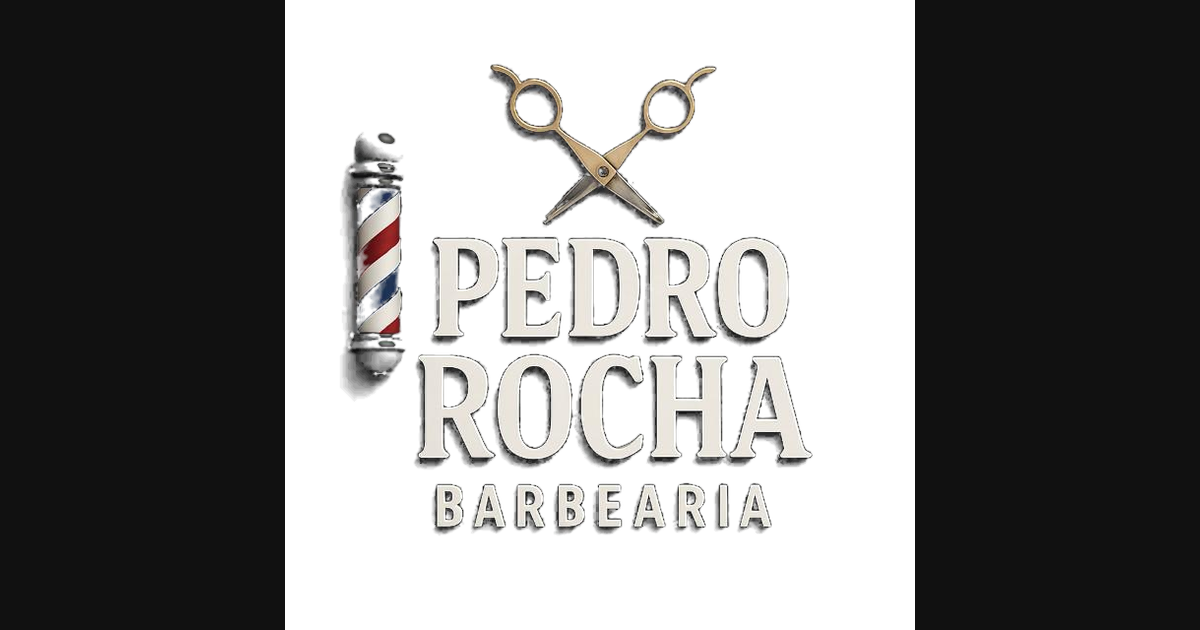
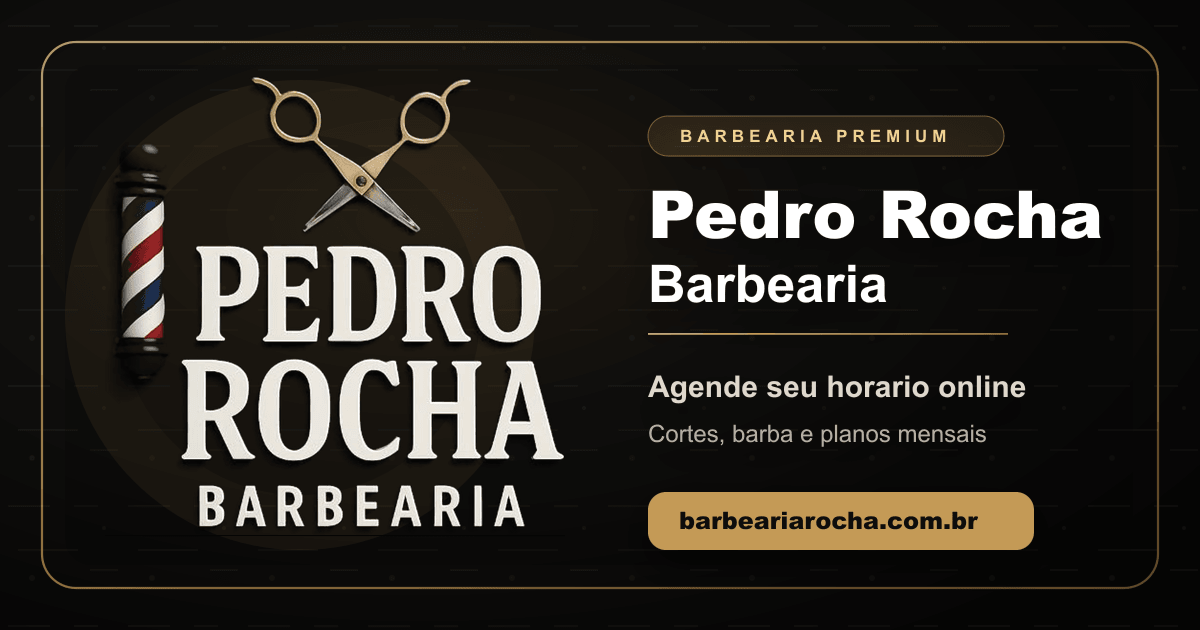
Improve Pedro Rocha social preview card

diff --git a/app/layout.tsx b/app/layout.tsx
@@ -38,6 +38,9 @@ const headingFont = Space_Grotesk({
   variable: "--font-heading",
 });
 
+const PEDRO_ROCHA_SOCIAL_CARD_PATH =
+  "/brands/pedro-rocha/social-card.png?v=20260603-social1";
+
 type TenantBrandStyle = CSSProperties & Record<`--${string}`, string>;
 
 export async function generateMetadata(): Promise<Metadata> {
@@ -100,18 +103,22 @@ export async function generateMetadata(): Promise<Metadata> {
       description,
       url: "/",
       siteName: brandName,
-      images: shop.logoPath
-        ? [
-            {
-              url: shop.logoPath,
-              width: 1200,
-              height: 630,
-              alt: brandName,
-            },
-          ]
-        : undefined,
+      images: [
+        {
+          url: PEDRO_ROCHA_SOCIAL_CARD_PATH,
+          width: 1200,
+          height: 630,
+          alt: `${brandName} - agendamento online`,
+        },
+      ],
       locale: "pt_BR",
       type: "website",
+    },
+    twitter: {
+      card: "summary_large_image",
+      title: brandName,
+      description,
+      images: [PEDRO_ROCHA_SOCIAL_CARD_PATH],
     },
   };
 }
